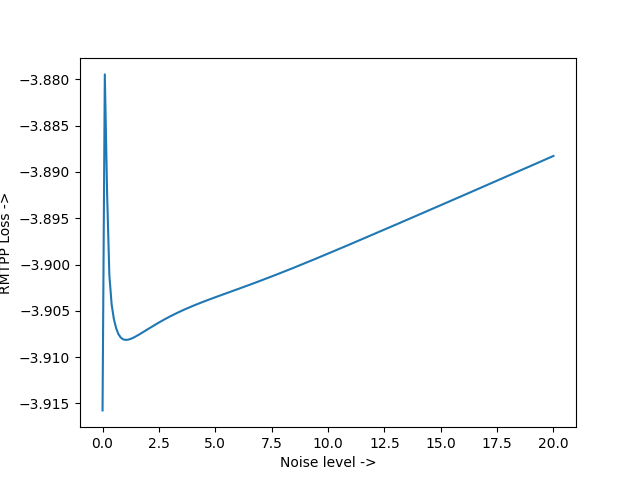
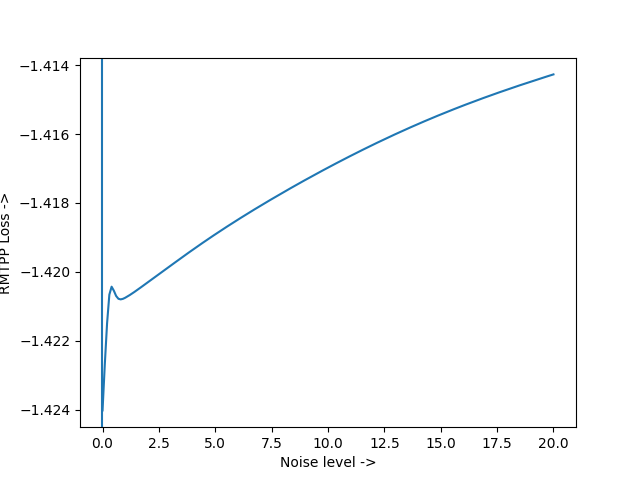
vline

diff --git a/noise.py b/noise.py
@@ -70,7 +70,10 @@ def evaluate_noise_loss():
         pred_times, pred_events = [], []
         gold_times, gold_events = [], []
         loss = []
+        vline = []
         for i, batch in enumerate(tqdm(test_loader)):
+            v = batch[0][1]-batch[0][0]
+            vline.append(v.cpu().detach().numpy())
             batch[0][0] += z
             time_tensor, event_tensor = batch
             time_input, time_target = model.dispatch([time_tensor[:, :-1], time_tensor[:, -1]])
@@ -90,9 +93,12 @@ def evaluate_noise_loss():
         #print(f"epoch {epc}")
         #print(f"time_error: {time_error}, PRECISION: {acc}, RECALL: {recall}, F1: {f1}")
 
+    vline = np.array(vline)
+
     plt.xlabel("Noise level ->")
     plt.ylabel("RMTPP Loss ->")
     plt.plot(errors, losses)
+    plt.axvline(x=vline.mean())
     plt.savefig("file_loss.png")
 
 
